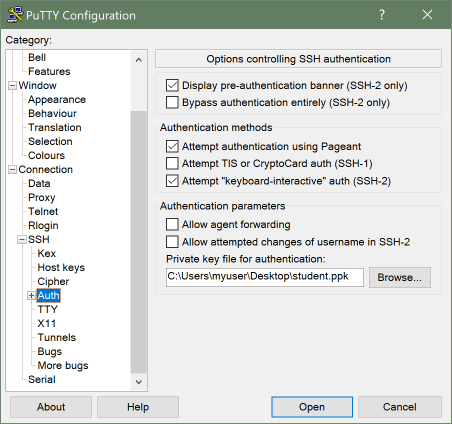
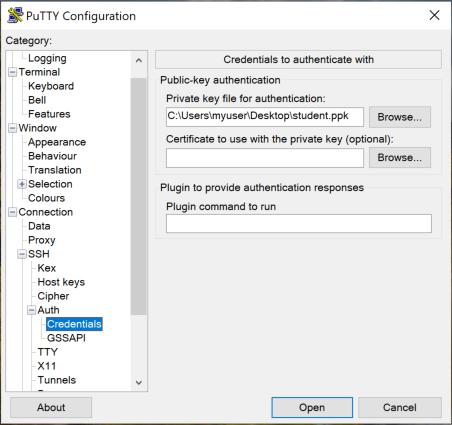
add ssh tunnel instructions for putty and mobaxterm as well as a new screenshot for putty credentials after v0.78 change

diff --git a/ssh-setup.md b/ssh-setup.md
@@ -8,7 +8,7 @@ In most cases this is three simple steps:
 1. Download the ssh key provided by your instructor to your laptop
 2. Change the ssh key file permissions to owner/read-only on your laptop:
      - `$ chmod 400 key.pem`
-3. Ssh to your assigned lab system from your laptop (ip provided by instructor):
+3. SSH to your assigned lab system from your laptop (ip provided by instructor):
      - `$ ssh -i key.pem ubuntu@my.lab.ip.addr`
 
 > The lab systems are Ubuntu Linux and the user "ubuntu" is used to login. The systems are protected with keys
@@ -31,25 +31,27 @@ run the appropriate ssh command as outlined above.
 Windows 10/11 systems typically provide a native ssh client accessible at the Command or PowerShell prompt.
 Third party ssh client tools are also frequently used on Windows (choose what works best for you).
 
-> N.B. RX-M reccomends GitBash and MobaXTerm
+> N.B. RX-M recommends GitBash and MobaXterm
 
 Links to 3rd party installers:
 
 - GitBash ssh command line client (free, part of Git distribution) [Windows/OSX/Linux] https://git-scm.com/downloads
-- MobaXTerm (free and paid) [Windows] https://mobaxterm.mobatek.net/download.html
-- PuTTY (free) [Windows] https://www.putty.org/
+- MobaXterm (free and paid) [Windows] https://MobaXterm.mobatek.net/download.html
+- [PuTTY](https://github.com/RX-M/classfiles/blob/master/ssh-setup.md#windows-putty) (free) [Windows] https://www.putty.org/
 
-If you are using any of the third party tools you do not need to adjust the permissions on your key file, you
-can simply ssh from the tool into your assigned lab system. Detailed instructions can be found below.
+If you are using any of the third party tools _you do not need to adjust the permissions on your key file_, you can
+simply ssh from the tool into your assigned lab system. Detailed instructions can be found below based on your client of
+choice:
 
-If you will be using the built in Windows ssh client, you will need to configure SSH key permissions as described
-in the next section:
+- [Windows native SSH](https://github.com/RX-M/classfiles/blob/master/ssh-setup.md#windows-native-ssh)
+- [MobaXterm](https://github.com/RX-M/classfiles/blob/master/ssh-setup.md#windows-MobaXterm)
+- [PuTTY](https://github.com/RX-M/classfiles/blob/master/ssh-setup.md#windows-putty)
 
 
 ### Windows native SSH
 
-In order to use private key files with Windows native ssh you must change the security
-attributes so that you alone have READ-ONLY access. Instructions follow:
+In order to use private key files with Windows native ssh you must change the security attributes so that you alone have
+READ-ONLY access. Instructions follow:
 
 - Locate the pem file in Windows Explorer, right-click on it then select "Properties".
 
@@ -115,9 +117,9 @@ retain these permissions after you perform this step once.
 Next, start an ssh session with a [shell](https://github.com/RX-M/classfiles/blob/master/ssh-setup.md#macoslinux--or--windows-gitbash-command-prompt-or-powershell-ssh).
 
 
-### Windows MobaXTerm
+### Windows MobaXterm
 
-To use MobaXTerm for ssh, start MobaXTerm and add a new session by clicking on the "Session" icon in the top-left corner
+To use MobaXterm for ssh, start MobaXterm and add a new session by clicking on the "Session" icon in the top-left corner
 or by selecting the "Sessions" menu and clicking "New session".
 
 In the "Session settings" window, click on SSH and enter the following information:
@@ -137,6 +139,13 @@ Click on the [ OK ] button to start your SSH session.
 
 PuTTY does not support the PEM format used by cloud environments. You can convert PEM files to Putty's
 PPK format (PPK = PuTTY Private Key) using the PuTTYgen utility.
+
+Converting a PEM key is typically not necessary in an RX-M course; your instructor has likely provided a PPK-formatted
+key and you skip to the section
+[SSH with PuTTY](https://github.com/RX-M/classfiles/blob/master/ssh-setup.md#ssh-with-putty).
+
+
+#### PuTTYgen
 
 To start the PuTTYgen utility you can type `puttygen` in the Windows start dialog box.
 
@@ -165,7 +174,8 @@ As the notice states, click on [ Save private key ]:
 
 Name the private key file and save it to a path that is easy to remember (we will use the path to the file in putty).
 
-Next, start an ssh session with [PuTTY](https://github.com/RX-M/classfiles/blob/master/ssh-setup.md#windows-putty-ssh).
+
+#### SSH with PuTTY
 
 Once you have converted the pem file to a ppk file, you are ready to use PuTTY. Open putty and type connection
 information in the "Host Name" text field:
@@ -179,13 +189,29 @@ The format should look similar to: `ubuntu@15.16.17.18` (substituting your assig
 
 Next, in the "Category" column on the left, click on the "`+`" icon next to the SSH field to expand the section.
 
+The newly expanded section will have an "Auth" subcategory. How you proceed from here depends on your PuTTY version.
+
+**PuTTY >= v0.78**
+
+In the newly expanded section, expand the "Auth" subcategory and click on "Credentials".
+
+In the "Private key file for authentication" text field, either type the path to your ppk file or click on the
+[ Browse... ] button to open the "Select private key file" dialog which will let you navigate to the location where you
+saved it using Windows explorer.
+
+<img alt="credentials" width="550px" src="./images/p07.png"/>
+
+<br>
+
+**PuTTY < v0.78**
+
 In the newly expanded section, click on "Auth".
 
 In the "Private key file for authentication" text field, either type the path to your ppk file or click on the
 [ Browse... ] button to open the "Select private key file" dialog which will let you navigate to the location where you
 saved it using Windows explorer.
 
-<img alt="auth" width="550px" src="./images/p07.png"/>
+<img alt="auth" width="550px" src="./images/p08.png"/>
 
 After setting the path to the private key file, you can _optionally_ return to the "Session" category, and under the
 "Saved Sessions" text box you can name your session and save it by clicking the [ Save ] button.
@@ -193,10 +219,10 @@ After setting the path to the private key file, you can _optionally_ return to t
 Click the [ Open ] button to start your SSH session.
 
 
-## SSH Port Forwarding
+## SSH tunneling / port forwarding
 
 Some environments (ZScaler, etc.) may block browser (HTTP) access from your laptop to the cloud lab system. You can
-easily and securily bypass this restriction with port forwarding through an ssh tunnel.
+easily and securely bypass this restriction with port forwarding through an ssh tunnel.
 
 For example, imagine you are running a lab which requires you to access a web GUI on port 8080 on your cloud based
 lab system. If your local or corporate environment blocks this access you can open a tunnel on your laptop to the lab
@@ -213,12 +239,76 @@ Taking this command apart:
 - `-i key.pem` - this provides the private key needed to create the ssh tunnel
 - `-L 127.0.0.1:1234:127.0.0.1:8080` - this is the Local port forwarding command:
     - `127.0.0.1:1234` - this causes the ssh command to forward localhost laptop connections targeting port "1234"
-    - `127.0.0.1:8080` - this completes the connection to the remote cloud system localhost port "8080"
+    - `127.0.0.1:8080` - this completes the connection to the remote cloud system's localhost port "8080"
 - `ubuntu@my.lab.ip.addr` - this logs you in as "ubuntu" on the system with ip address "my.lab.ip.addr"
 
-After issueing this command you can open a browser on your **laptop** using the url `http://127.0.0.1:1234/`
+After issuing this command you can open a browser **on your laptop** using the url `http://127.0.0.1:1234/`
 to reach the web GUI running on your **lab system** at `127.0.0.1:8080`.
 
 If you need to browse to multiple ports on your lab system you can use multiple `-L` switches. You must select a unique
 local port that is not in use on your laptop with each `-L` port forwarding ("1234" was used in the example above, so
 you could forward "1235" to a second port on the lab system, for example).
+
+
+### SSH tunneling / port forwarding with MobaXterm
+
+To use MobaXterm for ssh tunneling, start MobaXterm and add a new tunnel by clicking on the "Tunneling" icon on the top ribbon.
+
+The "MobaSSHTunnel" pop-up window will appear. In the bottom-left corner, click on [ New SSH Tunnel ]
+
+The graphical port forwarding builder window will appear. Enter the following information into the UI:
+
+- My computer with MobaXterm (bottom left) 
+  - Forwarded port text box - enter the port you will be using with the browser **on your laptop** (e.g. 1234)
+- Remote server (top right)
+  - Remote server text box - `127.0.0.1` 
+  - Remote port text box - the port on the **lab system** (e.g. 8080)
+- SSH server (bottom right)
+  - SSH server text box - the IP of your lab system
+  - SSH login text box - `ubuntu`
+  - SSH port text box - `22`
+
+<img alt="graphical port forwarding builder" width="700px" src="./images/p12.png"/>
+
+Click [ Save ] and the graphical builder will close and a new entry will be saved in the "MobaSSHTunnel" window. Click
+on the key icon for your tunnel to add your ssh key to its configuration using Windows explorer.
+
+Once the key is added, click the play icon for your tunnel and MobaXterm will establish your tunnel in the background.
+
+After starting the tunnel you can open a browser **on your laptop** using the url `http://127.0.0.1:1234/` to
+reach the web GUI running on your **lab system** at `127.0.0.1:8080`.
+
+If you need to browse to multiple ports on your lab system you can add and use multiple tunnel configs concurrently. You
+must select a unique local port that is not in use on your laptop with each forwarded port ("1234" was used in the
+example above, so you could forward "1235" to a second port on the lab system, for example).
+
+
+### SSH tunneling / port forwarding with PuTTY
+
+In the "Category" column on the left, click on the "`+`" icon next to the SSH field to expand the section.
+
+In the newly expanded section, click on "Tunnels", and fill out the options as follows:
+
+- In the "Source port" text field, put in the port you will be using with the browser **on your laptop** (e.g. 1234)
+- In the "Destination" text field, put in the localhost IP `127.0.0.1` followed by the port on the **lab system**
+
+Click the [ Add ] button to add the configuration:
+
+<img alt="tunnels" width="550px" src="./images/p09.png"/>
+
+Once the configuration has been added, you will see it under the "Forwarded ports" list:
+
+<img alt="tunnel config added" width="550px" src="./images/p10.png"/>
+
+After clicking [ Open ] you can open a browser **on your laptop** using the url `http://127.0.0.1:1234/` to reach the
+web GUI running on your **lab system** at `127.0.0.1:8080`.
+
+If you need to browse to multiple ports on your lab system you can add multiple entries to the "Forwarded ports" list.
+You must select a unique local port that is not in use on your laptop with each entry ("1234" was used in the example
+above, so you could forward "1235" to a second port on the lab system), for example:
+
+<img alt="multiple ports" width="550px" src="./images/p11.png"/>
+
+<br>
+
+_Copyright (c) 2012-2025 RX-M LLC, Cloud Native & AI Training and Consulting, all rights reserved_
